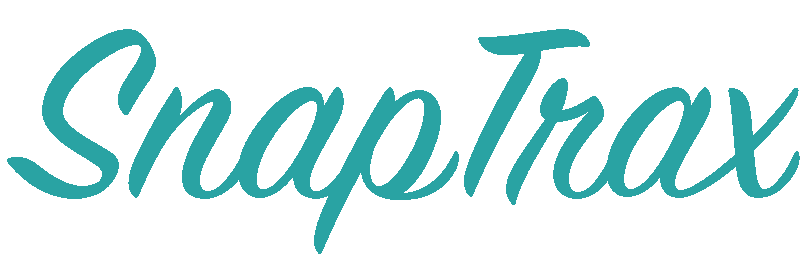
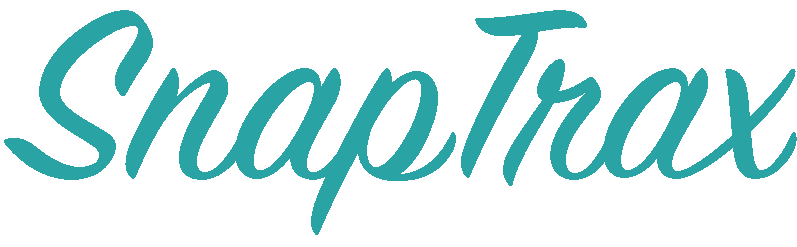
Quick update

diff --git a/SnapTrax/examples/album/css/album.css b/SnapTrax/examples/album/css/album.css
@@ -53,7 +53,7 @@ body {
 
 .banner_img {
   position: absolute;
-  top: 5%;
+  top: 7%;
   left: 25%;
 width: 50%;
 
